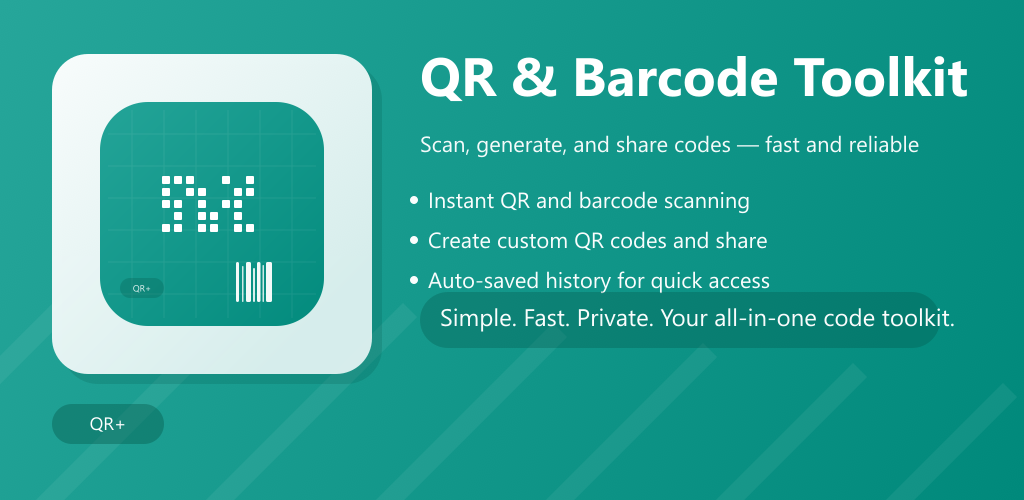
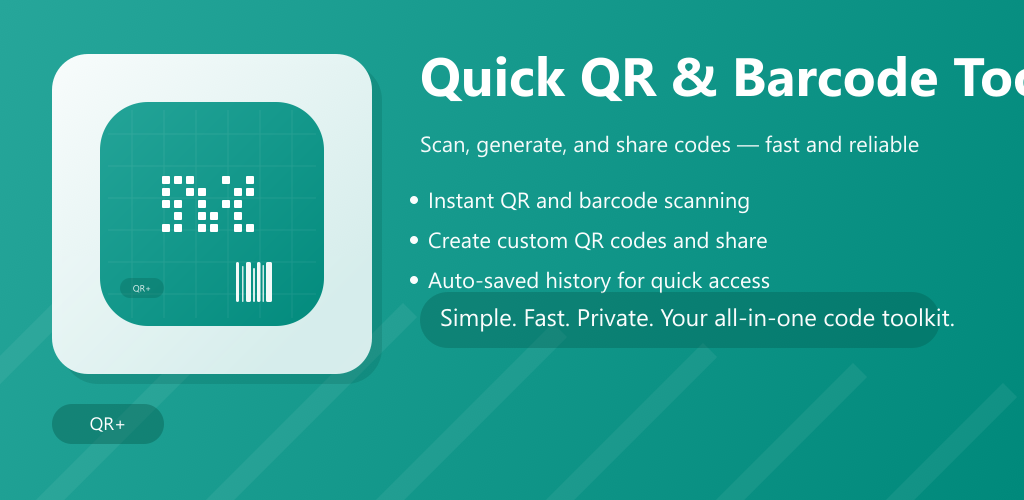
some changes

Changed region(s): [[0.4375, 0.09, 1.0, 0.21]]

diff --git a/lib/main.dart b/lib/main.dart
@@ -12,7 +12,7 @@ class MyApp extends StatelessWidget {
   @override
   Widget build(BuildContext context) {
     return MaterialApp(
-      title: 'QR & Barcode Toolkit',
+      title: 'Quick QR & Barcode Toolkit',
       theme: ThemeData(
         colorScheme: ColorScheme.fromSeed(seedColor: Colors.teal),
         useMaterial3: true,

diff --git a/PRIVACY_POLICY.md b/PRIVACY_POLICY.md
@@ -1,0 +1,100 @@
+# Privacy Policy – Quick QR & Barcode Toolkit
+
+Last updated: 7 September 2025
+
+Quick QR & Barcode Toolkit (the “App”) allows you to scan barcodes and QR codes, generate new QR codes, share results, and keep an optional on‑device history. We respect your privacy and designed the App to work without collecting, storing, or transferring personal data to our servers.
+
+If you have questions, contact: cbishal6@gmail.com
+
+## Scope
+
+This policy applies to the Android version of the App published under the package name “receiptbill”.
+
+## Information We Collect
+
+We designed the App to minimize data collection. Specifically:
+
+1. Camera Access (Required for scanning)
+   - Purpose: To read barcodes/QR codes using your device camera.
+   - Storage/Transmission: Camera frames are processed in real time on the device. They are not sent to us or any third‑party server.
+
+2. Content You Scan or Generate
+   - When you scan a code or generate a QR code, the resulting text/URL is shown to you in the App. This content is not uploaded to us.
+   - If you choose to save results to History, they are stored locally on your device only (see Local Storage below).
+
+3. Local Storage (On‑device history)
+   - The App uses Android’s SharedPreferences to store your saved history entries (content, format, timestamp) locally.
+   - You can delete single items or clear all history from within the App at any time.
+   - We do not have access to this local data.
+
+4. Optional Sharing
+   - If you tap Share, the App passes the selected text/QR image to the Android system share sheet. What happens next depends on the app you choose (e.g., email, messaging). Any data you send via sharing is handled by that chosen app under its own privacy policy and is outside our control.
+
+5. Logs, Analytics, Identifiers
+   - We do not collect analytics, advertising identifiers, crash reports, or telemetry from within the App.
+
+## What We Do Not Collect
+
+- No account registration.
+- No personal profile.
+- No cloud backups by us.
+- No background location, contacts, or microphone data.
+- No advertising SDKs.
+
+## How We Use Information
+
+- Provide core functionality: barcode/QR scanning, QR generation, sharing.
+- Maintain your on‑device history (if you choose to save).
+- Improve reliability and user experience through on‑device logic only. We do not process your data on remote servers.
+
+## Data Retention and Deletion
+
+- History items you save remain on your device until you delete them or clear all history from the App.
+- Uninstalling the App removes the App and its local data from your device.
+
+## Third‑Party Services and SDKs
+
+The App relies on open‑source components that run on‑device:
+- mobile_scanner (camera scanning)
+- qr_flutter (QR generation)
+- shared_preferences (local storage)
+- share_plus (system share sheet)
+- permission_handler (runtime permission requests)
+
+These libraries execute on your device and do not send your content to their own servers. Any sharing you initiate uses the chosen target app’s services, which are governed by those apps’ own policies.
+
+## Permissions Used (Android)
+
+- CAMERA: required to scan barcodes and QR codes.
+
+## Children’s Privacy
+
+The App is not directed to children under 13. We do not knowingly collect personal information from children. Because we do not collect data, any concerns can be resolved by uninstalling the App and clearing local history.
+
+## Security
+
+Because we do not operate servers for this App, your data remains on your device unless you choose to share it. Please keep your device secure and updated to protect local data (e.g., screen lock, OS updates).
+
+## International Data Transfers
+
+We do not transfer your data internationally because we do not collect or store your data on our servers.
+
+## Your Choices and Controls
+
+- You can choose not to grant the camera permission; scanning will be disabled until granted.
+- You can choose what, if anything, to save to History, and you can delete entries or clear all History.
+- You can choose if and how to share content through other apps.
+
+## Changes to This Policy
+
+We may update this Privacy Policy to reflect changes in the App or legal requirements. We will update the “Last updated” date above. Continued use of the App after changes indicates acceptance of the updated policy.
+
+## Contact Us
+
+If you have any questions or requests about this Privacy Policy or the App, contact:
+
+Email: cbishal6@gmail.com
+
+Developer/Publisher: Quick QR & Barcode Toolkit
+
+Address: Not applicable (independent developer). If you require a postal address for compliance, contact us via email.
